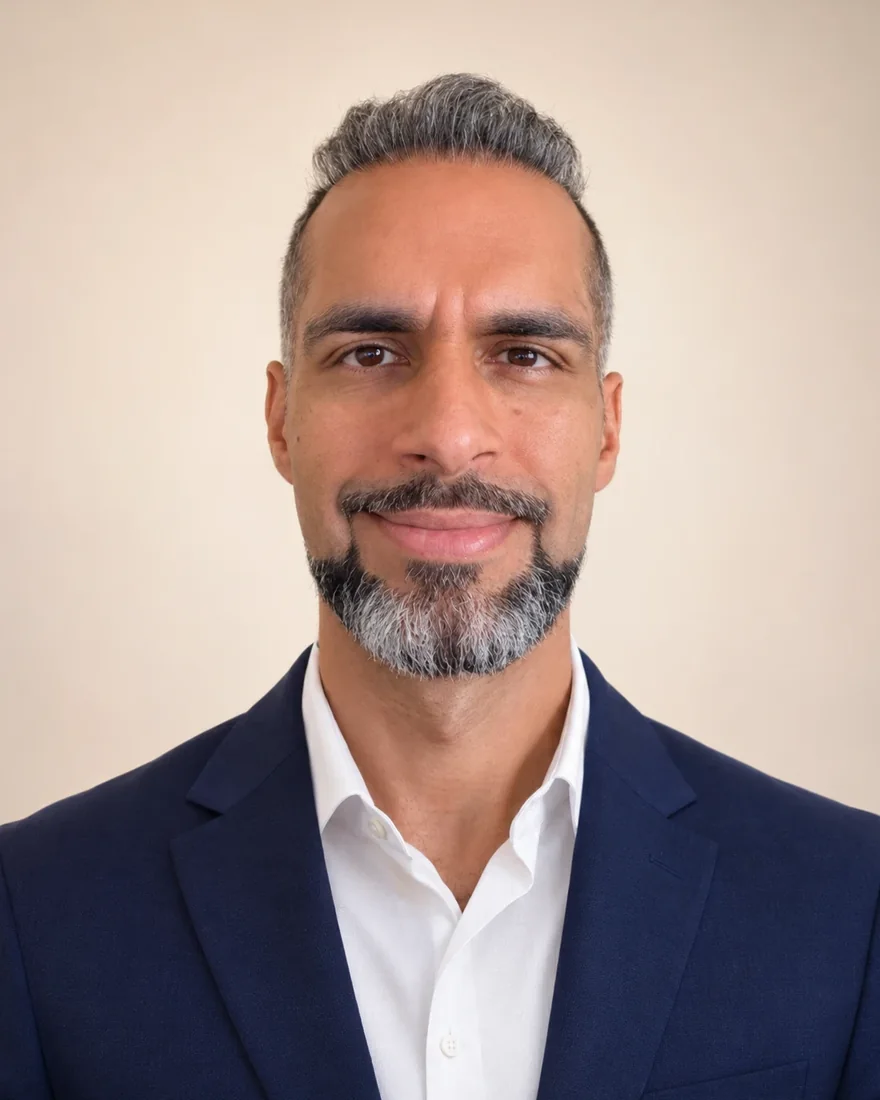
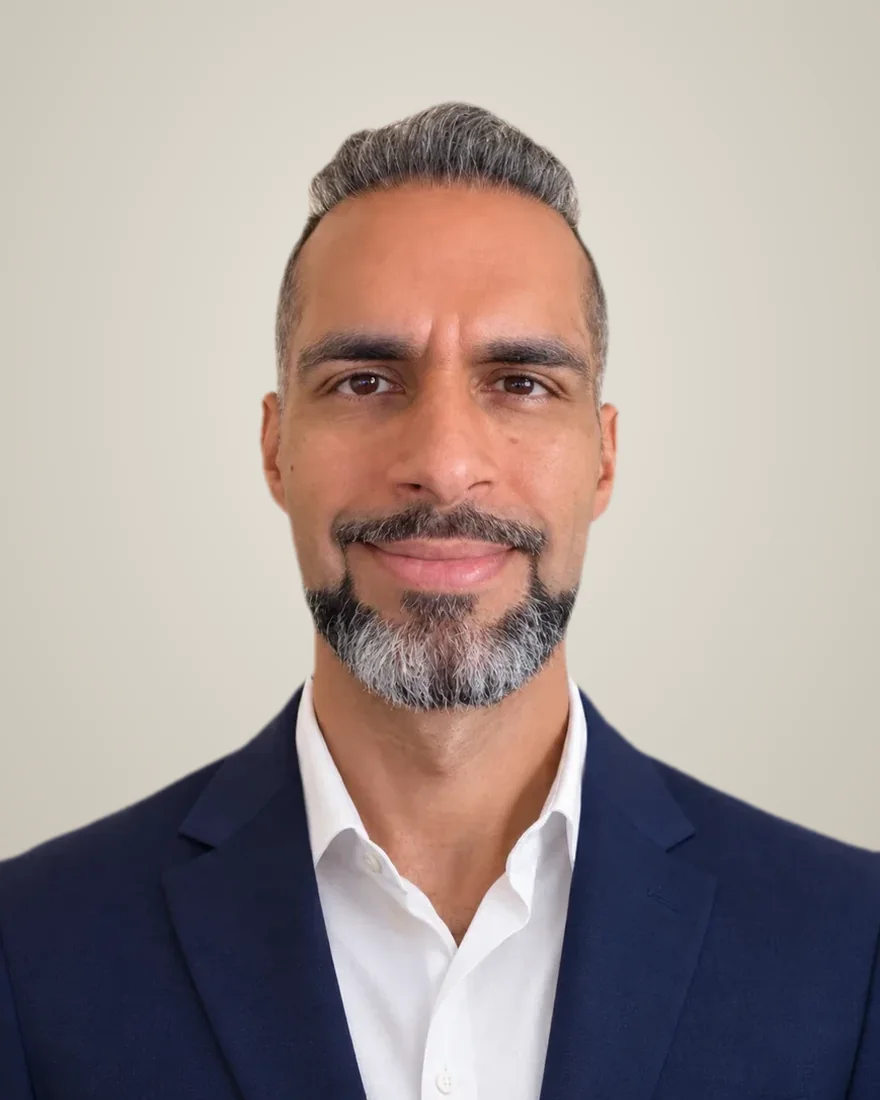
Team tab: matched portrait backdrops and framing, gold tone, COO bio for Amir
Claude-Session: https://claude.ai/code/session_014NhbtmUA87UCGRoWSpcgnQ

diff --git a/index.html b/index.html
@@ -939,11 +939,11 @@ footer::before { content: ''; position: absolute; top: 0; left: 0; right: 0; hei
   background: var(--card); border: 1px solid var(--border);
 }
 .member .portrait { position: relative; aspect-ratio: 4 / 5; background: #16140f; overflow: hidden; }
-/* One warm black-and-white grade with fine grain on every portrait, so the set reads as one shoot */
+/* One gold-toned monochrome grade with fine grain on every portrait, so the set reads as one shoot */
 .member .portrait img {
   display: block; width: 100%; height: 100%;
   object-fit: cover; object-position: 50% 22%;
-  filter: grayscale(1) sepia(0.14) contrast(1.08) brightness(0.98);
+  filter: grayscale(1) sepia(0.55) saturate(1.35) hue-rotate(-6deg) contrast(1.06) brightness(0.96);
 }
 .member .portrait::after {
   content: ''; position: absolute; inset: 0; pointer-events: none;
@@ -1534,9 +1534,9 @@ footer::before { content: ''; position: absolute; top: 0; left: 0; right: 0; hei
           <div class="portrait"><img src="team/amir-mahtani.webp" alt="Portrait of Amir Mahtani" width="880" height="1100" loading="lazy" decoding="async"></div>
           <div class="member-body">
             <h3>Amir Mahtani</h3>
-            <span class="role">Fourth Generation</span>
+            <span class="role">Chief Operating Officer</span>
             <div class="member-rule"></div>
-            <p>Amir is the fourth generation of the Mahtani family business.</p>
+            <p>Amir runs Inner Circle&rsquo;s day-to-day operations, overseeing administration, reporting and member relations with the same discipline that guides the portfolio.</p>
           </div>
         </article>
       </div>
